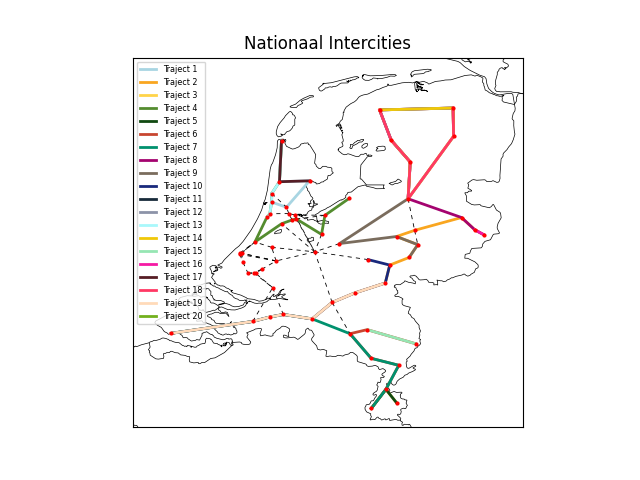
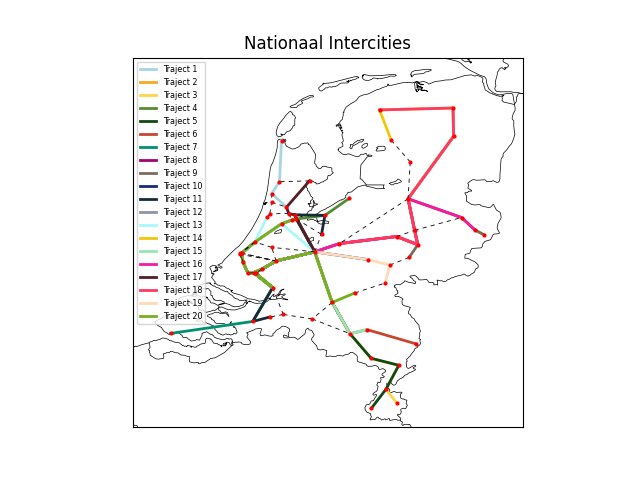
different options of greedy implemented

diff --git a/code/algorithms/greedy.py b/code/algorithms/greedy.py
@@ -20,18 +20,19 @@ class Greedy:
 
             key = list(self.graph.routes.keys())[-1]
             route = self.graph.routes[key]
+
             while route.time < self.MAX_TIME:
+                # Unavailable_options prevents that a station is visited multiple times in one route
                 for station in route.stations:
                     unavailable_options.add(station._name)
-                # if len(route.stations) > 1:
-                #     unavailable_options.add(route.stations[-2]._name)
 
                 possibilities = route.get_possibilities(unavailable_options)
                 
                 if len(possibilities) == 0:
                     unavailable_options = set()
                     break
-
+                
+                # Possibilities: station names, possibilities1: station objects
                 possibilities1 = []
                 for poss in possibilities:
                     possibilities1.append(self.graph.stations[poss])
@@ -39,26 +40,30 @@ class Greedy:
                 choice = self.get_best_station(possibilities1)
 
                 route.add_station(self.graph.stations[choice._name], route.stations[-1]._connections[choice._name])
+
+                # When time spend in the route is more than the max given time, the last connection and station is deleted
                 if route.time > self.MAX_TIME:
                     route.time -= route.stations[-2]._connections[choice._name]
+                    route.connections.remove((route.stations[-2]._name, route.stations[-1]._name))
                     route.stations.pop()
                     unavailable_options = set()
                     break
 
                 unavailable_options = set()
 
-            # NOTE: pas toevoegen als route valid is (alle stations van route)
             if not route.is_valid(self.map):
                 self.graph.routes.popitem()
             elif route.is_valid(self.map):
                 self.graph.count_visited_connections(route.connections)
                 stations_passed_list.append(starting_station)
 
+    # Get station with the least amount of possible connections
     def get_best_station(self, possibilities):
         possibilities.sort(key=lambda station: len(station._connections))
 
         return possibilities[0]
 
+    # Get starting station with the least amount of possible connections
     def get_best_starting_station(self, stations_list):
         stations = list(self.graph.stations.values())
         
@@ -76,3 +81,34 @@ class RandomGreedy(Greedy):
         possibilities.sort(key=lambda station: len(station._connections))
 
         return random.choice(possibilities)
+
+
+class ReverseGreedy(Greedy):
+    def get_best_station(self, possibilities):
+        possibilities.sort(key=lambda station: len(station._connections), reverse=True)
+
+        return possibilities[0]
+
+
+class NewGreedy(Greedy):
+    def get_best_station(self, possibilities):        
+        # Creates list with tuples of possible connections from last route last station
+        for route in list(self.graph.routes.keys())[-1:]:
+            possible_connections = []
+            for possibility in possibilities:
+                possible_connections.append((self.graph.routes[route].stations[-1]._name, possibility._name))
+
+        # Creates a dict with the station and the amount of connections made, vb: {"Alkmaar": 1, "Utrecht": 3}
+        new_dict = {}
+        for connection in possible_connections:
+            new_dict[connection[1]] = self.graph.connections[connection]
+            new_dict[connection[1]] += self.graph.connections[(connection[1], connection[0])]
+        
+        # Return station with the least amount of connections
+        return self.graph.stations[(min(new_dict.items(), key=lambda x: x[1])[0])]
+
+
+# NOTE: reverseNewGreedy met connecties volgen en in reverse order
+# NOTE: start station kiezen op basis van minste opties, als een station al bezocht is, deze uit deze lijst halen. Mocht deze lijst leeg zijn,
+# dan random een station kiezen.
+# NOTE: alle stations die maar een kant op kunnen altijd weghalen als gepasseerd worden

diff --git a/main.py b/main.py
@@ -1,6 +1,5 @@
 import argparse
 import sys
-from xmlrpc.client import boolean
 from code.algorithms import greedy as gr
 from code.algorithms import randomize
 from code.classes.stations_graph import StationsGraph
@@ -10,18 +9,47 @@ import pandas as pd
 
 # vb: python3 main.py Holland output.csv -N 10
 def main(the_map, output_file, RUNS, vis):
-    print(f"Calculating best routes out of {RUNS} runs...")
-
+    if RUNS == 1:
+        print(f"Calculating best routes out of {RUNS} run...")
+    else:
+        print(f"Calculating best routes out of {RUNS} runs...")
+        
     # Load data into the graph
     stations_graph = StationsGraph(f'data/Stations{the_map}.csv', f'data/Connecties{the_map}.csv')
     
-    test_greedy_graph = gr.Greedy(stations_graph, the_map)
-    test_greedy_graph.run()
+    # -------------------------------------------------------- Greedy --------------------------------------------------------
+    greedy_graph = gr.Greedy(stations_graph, the_map)
+    print("Greedy algorithm is running...")
+    greedy_graph.run()
 
-    test_randomGreedy_graph = gr.RandomGreedy(stations_graph, the_map)
-    test_randomGreedy_graph.run()
+    print(f"Greedy algorithm completed successfully with a score of {greedy_graph.graph.calculate_score()}.")
+    print()    
 
-    # Random solution
+    # ----------------------------------------------------- RandomGreedy -----------------------------------------------------
+    randomGreedy_graph = gr.RandomGreedy(stations_graph, the_map)
+    print("randomGreedy algorithm is running...")
+    randomGreedy_graph.run()
+
+    print(f"randomGreedy algorithm completed successfully with a score of {randomGreedy_graph.graph.calculate_score()}.")
+    print()
+    
+    # ---------------------------------------------------- ReverseGreedy -----------------------------------------------------
+    reverseGreedy_graph = gr.ReverseGreedy(stations_graph, the_map)
+    print("reverseGreedy algorithm is running...")
+    reverseGreedy_graph.run()
+
+    print(f"reverseGreedy algorithm completed successfully with a score of {reverseGreedy_graph.graph.calculate_score()}.")
+    print()
+
+    # ---------------------------------------------------- NewGreedy ---------------------------------------------------------
+    newGreedy_graph = gr.NewGreedy(stations_graph, the_map)
+    print("newGreedy algorithm is running...")
+    newGreedy_graph.run()
+
+    print(f"newGreedy algorithm completed successfully with a score of {newGreedy_graph.graph.calculate_score()}.")
+    print()    
+
+    # -------------------------------------------------------- random --------------------------------------------------------
     # best_graph = None
     # best_score = 0
     # total_score = 0
@@ -33,10 +61,14 @@ def main(the_map, output_file, RUNS, vis):
     #     total_score += random_graph.calculate_score()
     # average_score = total_score / RUNS
 
-    # print(f"Random algorithm completed successfully with a score of {best_graph.calculate_score()}.")
+    random_graph = randomize.random_assignment(stations_graph, the_map)
+    print("Random algorithm is running...")
+    print(f"Random algorithm completed successfully with a score of {random_graph.calculate_score()}.")
 
+    print()
+    # -------------------------------------------------------- output --------------------------------------------------------
     # Save graph to .csv file
-    generate_output(test_randomGreedy_graph.graph, output_file)
+    generate_output(reverseGreedy_graph.graph, output_file)
     print(f"See '{output_file}' for generated routes.")
 
     # Output info to file for personal use
@@ -47,7 +79,7 @@ def main(the_map, output_file, RUNS, vis):
         from visualization import visualization
         
         print("Loading visualization...")
-        visualization(the_map, test_randomGreedy_graph.graph)
+        visualization(the_map, reverseGreedy_graph.graph)
         print(f"Done! See 'test_{the_map}.png' for visualization.")
 
 

diff --git a/code/algorithms/randomize.py b/code/algorithms/randomize.py
@@ -37,6 +37,7 @@ def random_assignment(input_graph, the_map):
 
             # Stop adding if no options are left
             if len(possibilities) == 0:
+                unavailable_options = set()
                 break
             # Otherwise randomly pick a station
             choice = random.choice(possibilities)
